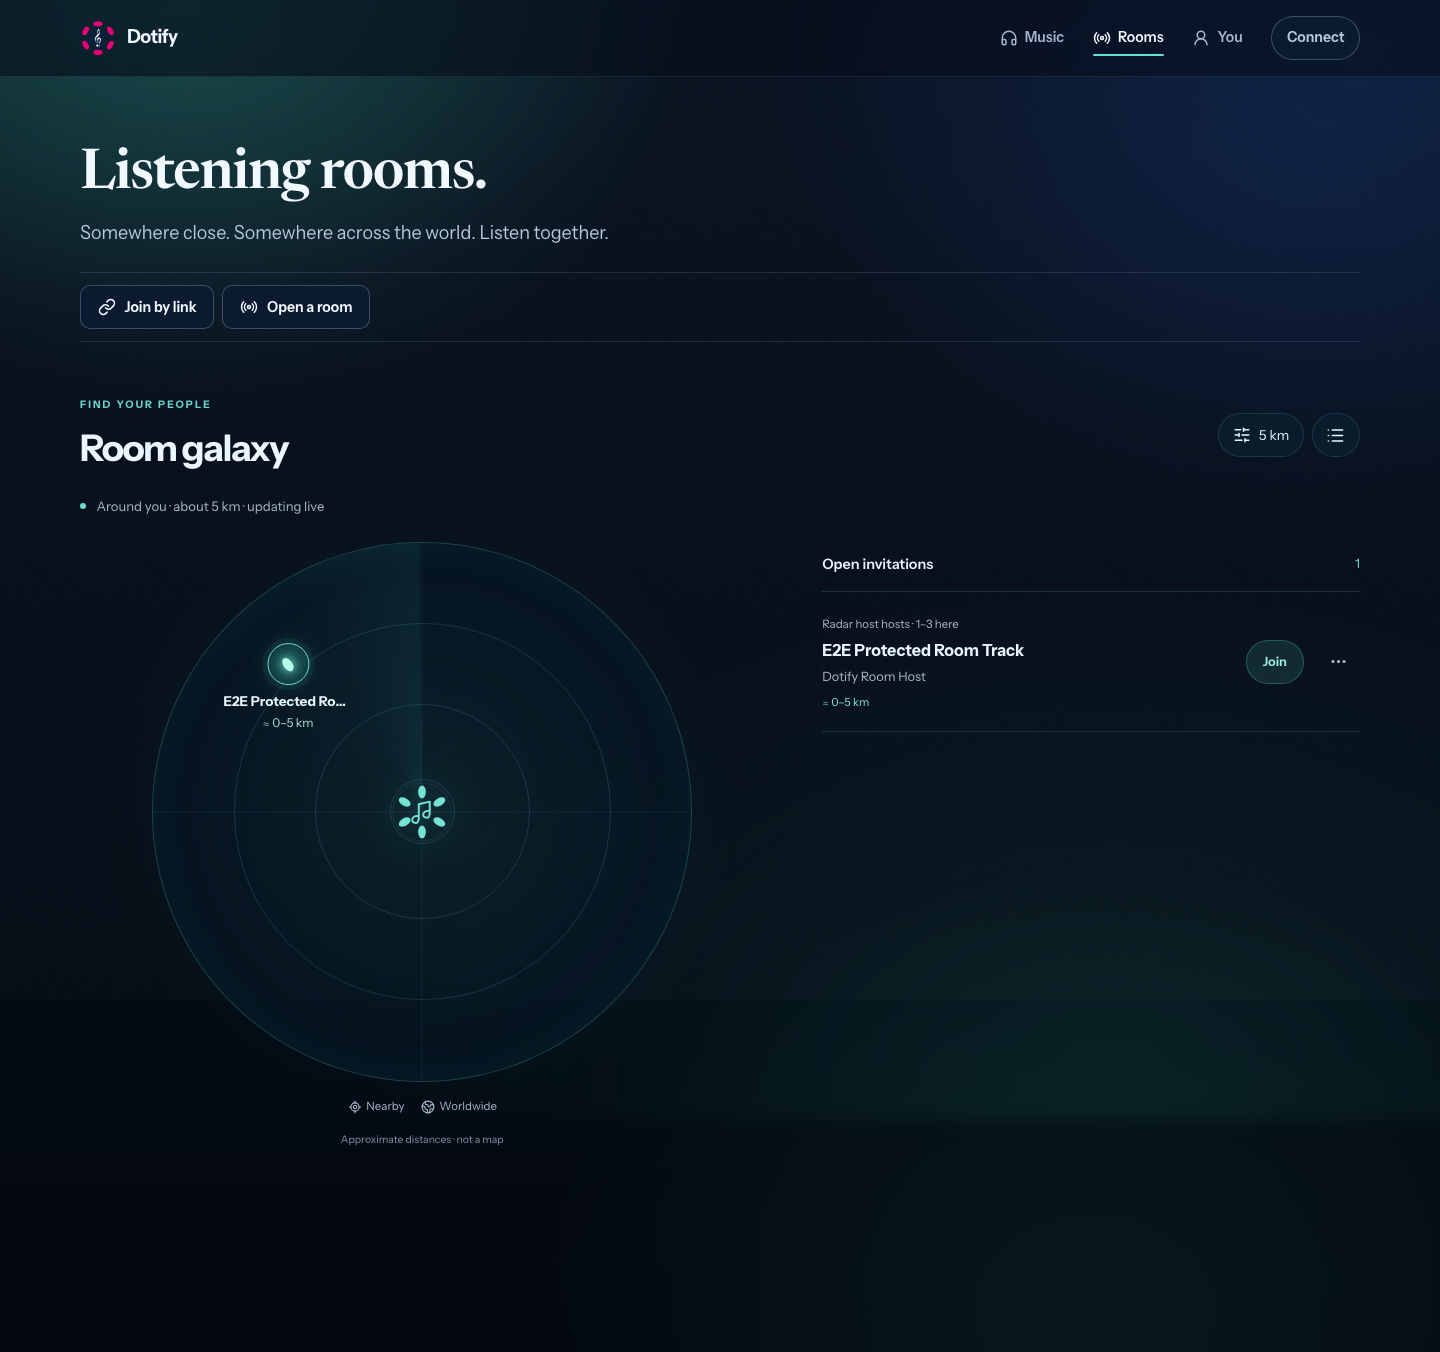
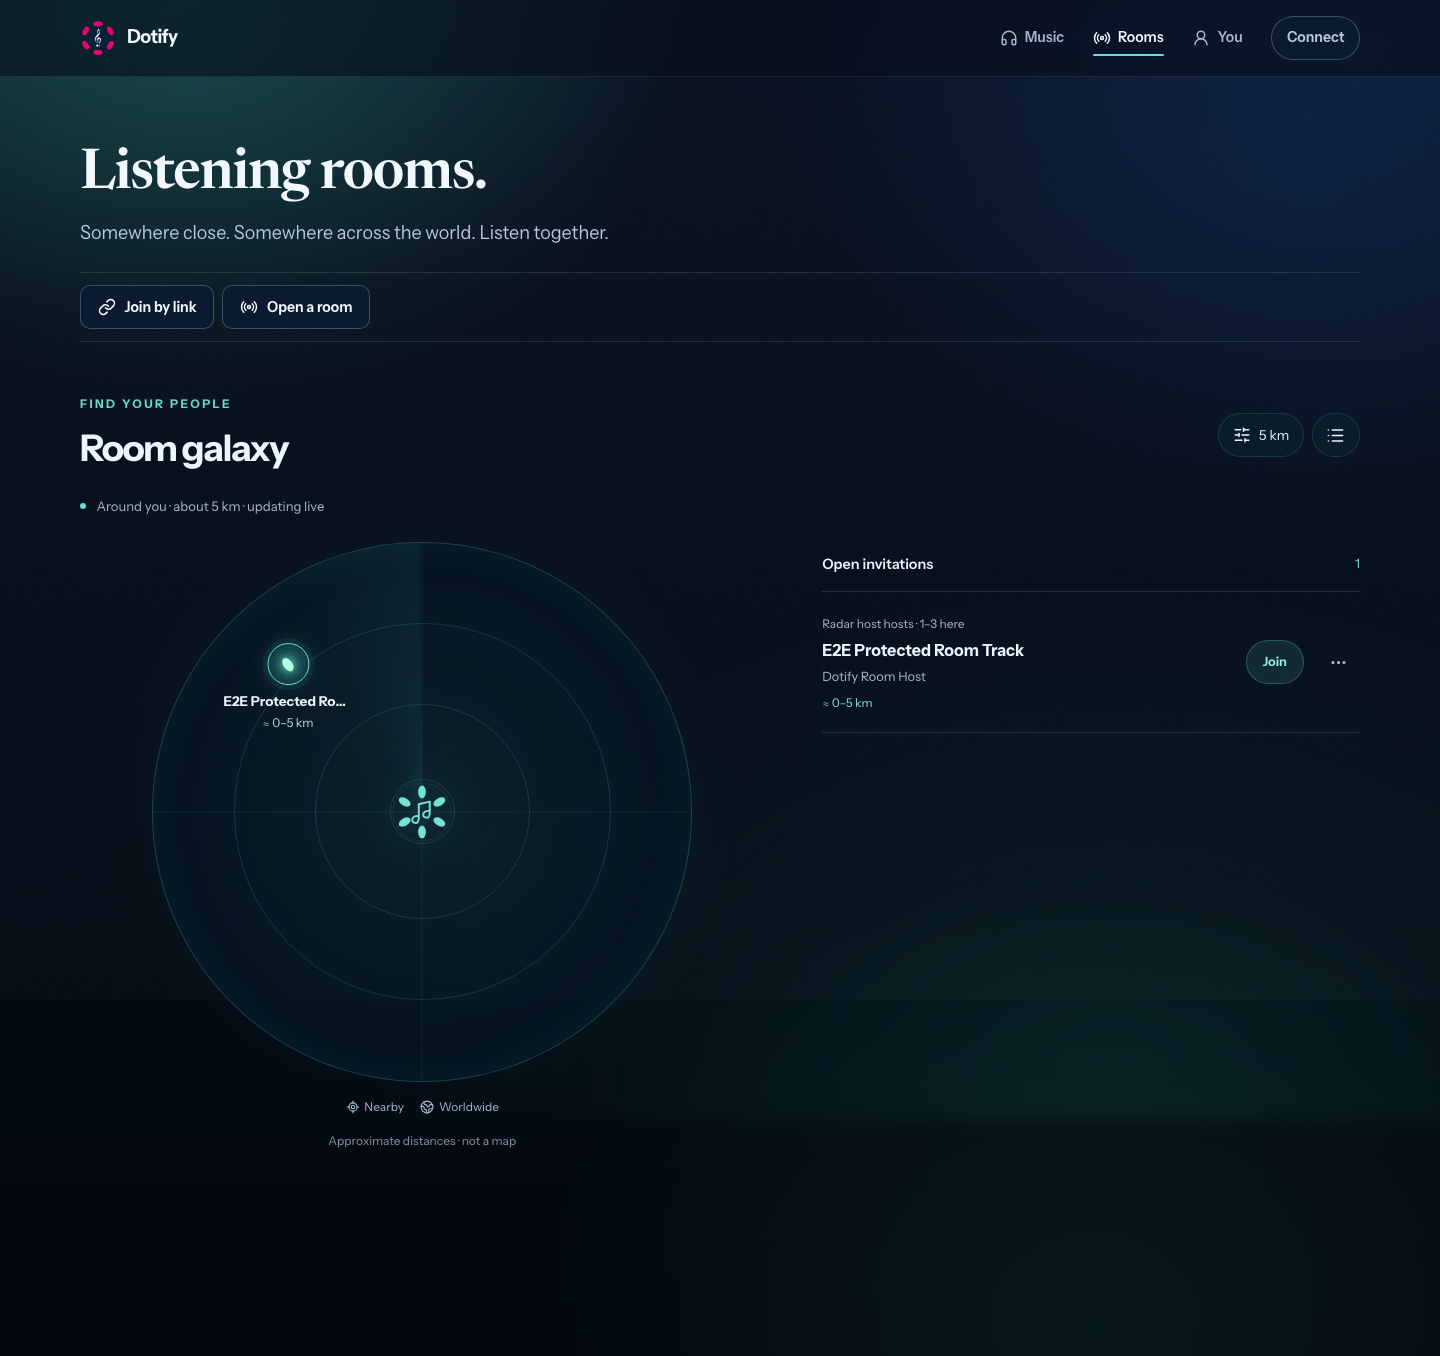
docs(rooms): refresh radar captures after typography validation

diff --git a/docs/backlog/implementation/evidence/W19-automatic-room-radar-2026-10-16.md b/docs/backlog/implementation/evidence/W19-automatic-room-radar-2026-10-16.md
@@ -7,7 +7,7 @@
 - Initial tested dev: `974568c8e42211d757f50178c7de96ca1df087e3`.
 - Prerequisite: PR #297, `0d3fca4ef0fb340c5d346c0f05474b93ffd3ac76`.
   The isolated branch started from dev, then included that tested follow-up.
-- Implementation actually tested: `03d0718` on `feat/automatic-room-radar`.
+- Implementation actually tested: `03d0718`; final typography/copy correction `2ca0b1c` on `feat/automatic-room-radar`.
 - Issue: Refs #274. Code locally verified; physical Product checks remain open.
 - Release: **not deployed**. No real location, account signature or payment used.
 
@@ -63,6 +63,7 @@ local Socket.IO server, with two independent contexts for host/guest scenarios.
 | Adaptive rooms + creation | 5 passed: keyboard focus/Escape, no WebGL, reduced motion/Hide, mobile touch targets/overflow, superseded creation cannot publish an old choice. |
 | Arrival + room dock | 6 passed: link sheet and entry controls on mobile/desktop; existing guest dock/audio state at 320/390/430/1440 px. |
 | Clear-interface room presence | Passed: private room absent from discovery; offline status and draft preserved. |
+| Typography/reflow | Eight existing checks pass at 360/390/768/1440 px, including 200% text. Initial full CI found four failures because small radar labels fell below the existing 12px floor; that was corrected without weakening the tests. The other 236 core scenarios passed in that run. |
 | Visual / accessibility | Synthetic mobile/desktop captures inspected; radar and publication sheet axe scans passed. Final mobile action alignment was recaptured and the automatic discovery/audio test passed again. |
 | Static / builds | TypeScript, formatting, lint, Web build and frozen Product build passed. Lint retains two pre-existing App.tsx hook warnings; builds retain large-chunk warnings. No new dependency. |
 
